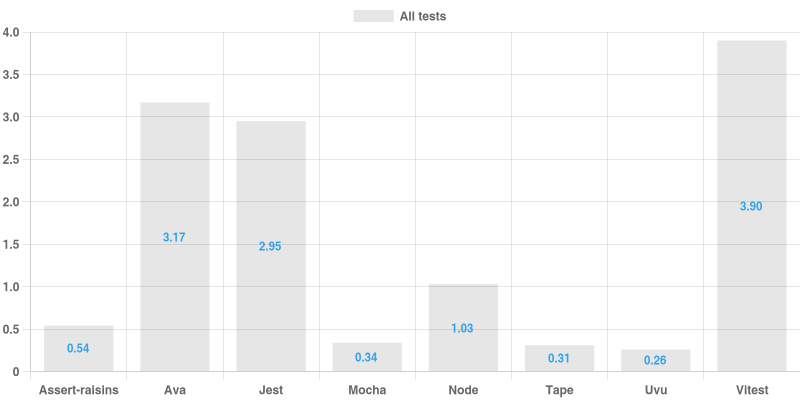
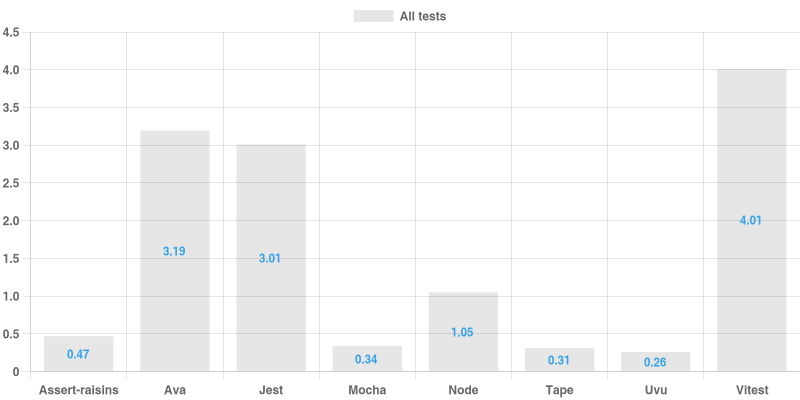
Update results

diff --git a/readme.md b/readme.md
@@ -19,22 +19,22 @@ To generate sizable "import" load, I took a large Node project - [Sails](https:/
 
 | runner | real | user | system | notes |
 | ------ | ----:| ----:| ------:| ----- |
-|Node all tests|1.03|10.51|2.75||
-|Node single test|0.20|0.19|0.04||
-|Jest all tests|2.95|33.76|4.81||
-|Jest single test|0.58|0.60|0.12||
-|Mocha all tests|0.34|0.34|0.07||
-|Mocha single test|0.24|0.24|0.06||
-|Tape all tests|0.31|0.31|0.06|No concurrency|
-|Tape single test|0.20|0.21|0.04||
-|Vitest all tests|3.90|33.16|10.46|Default concurrency mode|
-|Vitest single test|0.79|3.00|1.23||
-|Uvu all tests|0.26|0.26|0.07|No concurrency|
-|Uvu single test|0.16|0.14|0.04||
-|Ava all tests|3.17|34.08|5.35||
-|Ava single test|0.47|0.48|0.12||
-|Assert-raisins all tests|0.54|0.10|0.04||
-|Assert-raisins single test|0.18|0.18|0.04||
+|Node all tests|1.05|10.56|2.82||
+|Node single test|0.20|0.19|0.05||
+|Jest all tests|3.01|33.52|4.99||
+|Jest single test|0.59|0.61|0.13||
+|Mocha all tests|0.34|0.33|0.08||
+|Mocha single test|0.24|0.26|0.04||
+|Tape all tests|0.31|0.31|0.08|No concurrency|
+|Tape single test|0.20|0.21|0.05||
+|Vitest all tests|4.01|33.78|10.45|Default concurrency mode|
+|Vitest single test|0.80|3.03|1.27||
+|Uvu all tests|0.26|0.25|0.07|No concurrency|
+|Uvu single test|0.16|0.16|0.03||
+|Ava all tests|3.19|34.37|5.48||
+|Ava single test|0.48|0.52|0.09||
+|Assert-raisins all tests|0.47|3.32|0.59||
+|Assert-raisins single test|0.18|0.19|0.04||
 
 ## Usage
 

diff --git a/results.md b/results.md
@@ -1,18 +1,18 @@
 | runner | real | user | system | notes |
 | ------ | ----:| ----:| ------:| ----- |
-|Node all tests|1.03|10.51|2.75||
-|Node single test|0.20|0.19|0.04||
-|Jest all tests|2.95|33.76|4.81||
-|Jest single test|0.58|0.60|0.12||
-|Mocha all tests|0.34|0.34|0.07||
-|Mocha single test|0.24|0.24|0.06||
-|Tape all tests|0.31|0.31|0.06|No concurrency|
-|Tape single test|0.20|0.21|0.04||
-|Vitest all tests|3.90|33.16|10.46|Default concurrency mode|
-|Vitest single test|0.79|3.00|1.23||
-|Uvu all tests|0.26|0.26|0.07|No concurrency|
-|Uvu single test|0.16|0.14|0.04||
-|Ava all tests|3.17|34.08|5.35||
-|Ava single test|0.47|0.48|0.12||
-|Assert-raisins all tests|0.54|0.10|0.04||
-|Assert-raisins single test|0.18|0.18|0.04||
+|Node all tests|1.05|10.56|2.82||
+|Node single test|0.20|0.19|0.05||
+|Jest all tests|3.01|33.52|4.99||
+|Jest single test|0.59|0.61|0.13||
+|Mocha all tests|0.34|0.33|0.08||
+|Mocha single test|0.24|0.26|0.04||
+|Tape all tests|0.31|0.31|0.08|No concurrency|
+|Tape single test|0.20|0.21|0.05||
+|Vitest all tests|4.01|33.78|10.45|Default concurrency mode|
+|Vitest single test|0.80|3.03|1.27||
+|Uvu all tests|0.26|0.25|0.07|No concurrency|
+|Uvu single test|0.16|0.16|0.03||
+|Ava all tests|3.19|34.37|5.48||
+|Ava single test|0.48|0.52|0.09||
+|Assert-raisins all tests|0.47|3.32|0.59||
+|Assert-raisins single test|0.18|0.19|0.04||
